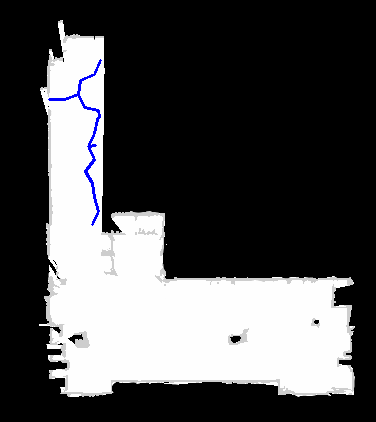
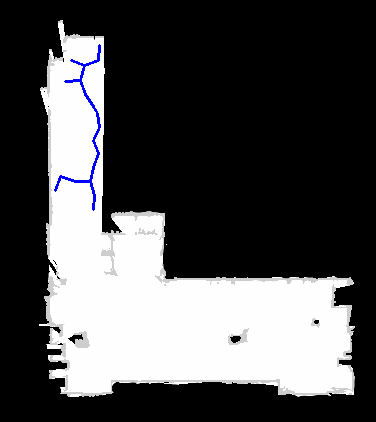
Made a bunch of bs and witchcraft, but it is somehow working now....

Changed region(s): [[0.117, 0.0924, 0.2926, 0.5237]]

diff --git a/RRT.py b/RRT.py
@@ -4,6 +4,7 @@ import matplotlib.pyplot as plt
 import cv2
 from nodeClass import Node
 from shapely import geometry as geo
+import solve
 def findAngle(x0, y0, x1, y1):
     delta_x = x1 - x0
     delta_y = y1 - y0
@@ -22,20 +23,33 @@ def checkLine(imgNew, imgOld): # Check if the line on the current map is placed 
                 if (imgOld[idx][idy][0] == 205 or imgOld[idx][idy][0] == 0):
                     return False
     return True
-def makeLine(imgOld,node0 : Node, node1 : Node, x0, y0, x1, y1): # Creates line between two different sets of (x,y) coordinates on the new map
+def makeLine(imgOld,node0 : Node, node1 : Node): # Creates line between two different sets of (x,y) coordinates on the new map
     x0 = node0.pos[0]
     y0 = node0.pos[1]
     x1 = node1.pos[0]
     y1 = node1.pos[1]
     color = (255, 0, 0)
-    newImage = imgOld.copy()
-    tempAngle = [findAngle(x0, y0, x1, y1)]
-    tempAngle.append(tempAngle[0]+45)
-    tempAngle.append(tempAngle[0]-45)
-    print(tempAngle)
+    newImage = imgOld.copy()#Creates new image to draw on. This is done in case the changes need to be reverted, the old image can still be used..
+    tempAngle = [findAngle(x0, y0, x1, y1)] #Finds angle between old node and new node, compared to x axis
+    if tempAngle[0] < 0:
+        tempAngle[0] = tempAngle[0] + 360#This is done to make sure that anything above 180 is actually something like 190 and not -170
+    tempAngle.append(tempAngle[0]+45) #Finds two new angles, this one +45 deg of orig angle
+    tempAngle.append(tempAngle[0]-45) #This one -45 of orig angle
+    #print(node1.id)
+    #print(tempAngle)
+    cv2.line(newImage, (x0,y0),(x1,y1), color, 2)
     for x in range(3):
-        pass
-    cv2.line(newImage, (x0,y0),(x1,y1), color, 5)
+        node1.heading = tempAngle[x]
+        try:
+            status = solve.drawPath(newImage, node0, node1)
+            if status is not False:
+                print("OKFOFK")
+                if checkLine(status, imgOld):
+                    cv2.line(imgOld, (x0,y0),(x1,y1), color, 2)
+                    return True
+        except:
+            pass
+    return False
     if checkLine(newImage, imgOld):
         cv2.line(imgOld, (x0,y0),(x1,y1), color, 2)
         return True
@@ -73,6 +87,7 @@ def nearestNode(nodes, point): # Iterates through each node generated and measur
 def RTT(node, goal, img, stepSize = 30):
     nodes : list[Node] = [node]
     i = 0
+    triesCounter = 0
     while i  < 500:
         newCoords = getRPoint(img) # Stores coordinates in newCoords from the new generated point(using getRPoint on the map)
         _nearestNode = nearestNode(nodes, newCoords) # Measures distance too all generated nodes, takes the shortest distance and stores in _nearestnode variable
@@ -82,16 +97,21 @@ def RTT(node, goal, img, stepSize = 30):
         if not makeLine(img, _nearestNode, nodes[-1]): # If the line is false it will reset by not drawing the line and decrementing i 
             nodes.pop(-1)                                                                                   # as the increment happens no matter what
             i = i - 1
+            triesCounter = triesCounter + 1
         else:
-            print(i)
+            #print(i)
+            triesCounter = 0
             cv2.imwrite("images/RRT"+str(i)+".png", img)      
-            nodes[-1].addConnection(nodes[-2])    
+            nodes[-1].addConnection(nodes[-2])
+        if triesCounter > 8 and len(nodes) > 1:
+            triesCounter = 0
+            nodes.pop()    
         if (mesaureDist(nodes[-1], goal) < stepSize): # If a node is within the stepSize distance of the goal node, a line will be created between the two nodes
-            if makeLine(img, goal.pos[0], goal.pos[1], nodes[-1].pos[0], nodes[-1].pos[1]):
+            if makeLine(img, nodes[-1], goal):
                 print("Reached goal!!!")
-                nodes.append(Node("Goal", goal.pos[0], goal.pos[1]))
-                nodes[-1].addConnection(nodes[-2])
-                return nodes
+            nodes.append(Node("Goal", goal.pos[0], goal.pos[1]))
+            nodes[-1].addConnection(nodes[-2])
+            return nodes
 
 
 if __name__ == "__main__":

diff --git a/solve.py b/solve.py
@@ -2,6 +2,8 @@ from sympy.solvers import solve
 from sympy import *
 from cmath import cos, sin
 from math import radians, degrees
+import math
+from nodeClass import Node
 from loadParams import *
 import drawTools
 x = Symbol('x')
@@ -80,29 +82,88 @@ def trajectoryGen(tf, startX, startY, goalX, goalY, startAngle, goalAngle):
         length.append(sqrt((x_b_0[x][0]-x_r[x])**2+(x_b_0[x][1]-y_r[x])**2))
     
     #print(x_b_0)
-    print(length)
+    #print(length)
     return x_b_0, h_b_0, xRobot, heading
     #print(x_b_0)
     print(length)
+def findAngle(x0, y0, x1, y1):
+    delta_x = x1 - x0
+    delta_y = y1 - y0
+    theta_radians = math.atan2(delta_y, delta_x)
+    return math.degrees(theta_radians)
 
-xBed, hBed, xRobot, hRobot = trajectoryGen(2, 7, 7, 14, 14, 135, 45)
+
 image = cv2.imread('blank.png')
-compound = True
-for x in range (len(xBed)-1):
-    time = 0.05*x
-    if (compound):
-        image = cv2.imread('blank.png')
-    bedX = (round(xBed[x][0],2))
-    bedY = (round(xBed[x][1],2))
-    bedH = degrees(acos(hBed[x][0]))
-    robotX = xRobot[0].subs("t", time)
-    robotY = xRobot[1].subs("t", time)
-    robotH = degrees(acos(hRobot[0].subs("t",time)))
-    drawTools.drawRect(image, bed, bedH, bedX, bedY)
-    drawTools.drawRect(image, robot, robotH, robotX, robotY)
-    #cv2.imwrite("images/trailer/"+str(x)+".png", image)
-    cv2.imshow('image', image)
+compound = False
+compund = True
+def drawPath(img, node0 : Node, node1 : Node):
+    print("YOURE IN SOLVE NOW")
+    x0 = node0.pos[0]/20
+    y0 = node0.pos[1]/20
+    x1 = node1.pos[0]/20
+    y1 = node1.pos[1]/20
+    h0 = node0.heading
+    h1 = node1.heading
+    angle = findAngle(x0,y0,x1,y1)
+    if angle < 0:
+        angle+=360
+    if h0 > angle+10 or h0 < angle - 15:
+        print("TOO WIDE")
+        return False
+    print(x0, y0, x1, y1, h0, h1)
+    print(angle)
+    xBed, hBed, xRobot, hRobot = trajectoryGen(2, x0, y0, x1, y1, h0, h1)
+    nimg = img.copy()
+    for x in range (len(xBed)-1):
+        #nimg = img.copy()
+        time = 0.05*x
+        bedX = (round(xBed[x][0],2))
+        bedY = (round(xBed[x][1],2))
+        bedH = degrees(acos(hBed[x][0]))
+        robotX = xRobot[0].subs("t", time)
+        robotY = xRobot[1].subs("t", time)
+        bedY1 = (round(xBed[x+1][1],2))
+        robotH = degrees(acos(hRobot[0].subs("t",time)))
+        if bedY > robotY :
+            #pass
+            bedH = -bedH
+            robotH = -robotH
+        drawTools.drawRect(nimg, bed, bedH, bedX*20, bedY*20)
+        drawTools.drawRect(nimg, robot, robotH, robotX*20, robotY*20)
+        #cv2.imwrite("images/trailer/"+str(x)+".png", image)
+    cv2.imshow('image', nimg)
     cv2.waitKey()
+    return nimg
+if __name__ == "__main__":
+    print("FUCK")
+    angle = findAngle(4.65, 6.65, 5.35, 6.55)#When making function make sure that all inputs above 180 be plussed with 360
+    if angle < 0:
+        angle+=360
+    print(angle)
+    xBed, hBed, xRobot, hRobot = trajectoryGen(2, 4.65, 6.65, 5.35, 6.75, 286.6992442339936, 306.86989764584405)
+    
+    for x in range (len(xBed)-1):
+        time = 0.05*x
+        if (compound):
+            image = cv2.imread('blank.png')
+        bedX = (round(xBed[x][0],2))
+        bedY = (round(xBed[x][1],2))
+        bedH = degrees(acos(hBed[x][0]))
+        robotX = xRobot[0].subs("t", time)
+        robotY = xRobot[1].subs("t", time)
+        bedY1 = (round(xBed[x+1][1],2))
+        robotH = degrees(acos(hRobot[0].subs("t",time)))
+        if bedY > robotY :
+            #pass
+            bedH = -bedH
+            robotH = -robotH
+        drawTools.drawRect(image, bed, bedH, bedX*20, bedY*20)
+        drawTools.drawRect(image, robot, robotH, robotX*20, robotY*20)
+        print(robotH)
+        #cv2.imwrite("images/trailer/"+str(x)+".png", image)
+        cv2.imshow('image', image)
+        cv2.waitKey()
 
-    #print(x)
-    #print(time)
+        #print(x)
+        #print(time)
+    

diff --git a/drawTools.py b/drawTools.py
@@ -13,14 +13,17 @@ def drawRect(tempimg, vehicle, angle, x, y):
     wheelBaseX = length/2 - center
     actualX = int(wheelBaseX * cos(radians(angle)))
     actualY = int(wheelBaseX * sin(radians(angle)))
-    x, y = int(meterToPixel(x)), int(meterToPixel(y))
+    x, y = int((x)), int((y))
     rect = ((x+actualX, y+actualY), (length, width), angle)
     box = np.int0(cv2.boxPoints(rect))
     tempimg[y][int(x)] = [0,0,0]
-    cv2.drawContours(tempimg, [box], 0, (255,0,0), -1)
+    cv2.drawContours(tempimg, [box], 0, (255,0,0), 1)
 if __name__ == "__main__":
-    drawRect(image, robot, 0, 2.5, 0)
-    drawRect(image, bed, 25, 0, 1)
+    image = cv2.imread('testMap.png')
+    drawRect(image, robot, -90, 14, 14)
+    drawRect(image, bed, -90, 14, 17)
+    #90.00000000000001 14.0000000000000 17.0000000000000
+    #-90.00000000000001 14 14
     #drawRect(image, x.bed, 40, 21.5, 20)
     cv2.imshow('image', image)
     cv2.waitKey()

diff --git a/Polynomial.py b/Polynomial.py
@@ -30,13 +30,15 @@ def trajectoryGen(tf, startX, startY, goalX, goalY, startAngle, goalAngle):
         x_r.append((a*T**3 + b*T**2 + c*T + d).real)
         y_r.append((a1*T**3 + b1*T**2 + c1*T + d1).real)
     return x_r, y_r
+#trajectoryGen(2, 14, 7, 14, 14, 270, 235)
+mult = 0.5
+x0, y0 = trajectoryGen(2, 4.65*mult, 6.7*mult, 4.3*mult, 6.0*mult, 290.22485943116806, 288.434948822922)
 
-x0, y0 = trajectoryGen(2, 1, 1, 2, 2, 0, 45)
 x1, y1 = trajectoryGen(2, 1, 0, 2, 1, 90, 45)
 x2 , y2 = trajectoryGen(2, 1, 0, 2, 1, 90, 0)
 plt.figure("Trajectory Generator")
 plt.plot(x0, y0, color="red")
 #plt.plot(x1, y1, color="blue")
-plt.plot(x2, y2, color="#0fee0f")
+#plt.plot(x2, y2, color="#0fee0f")
 
 plt.show()

diff --git a/main.py b/main.py
@@ -3,7 +3,7 @@ from nodeClass import Node
 import RRT
 import cv2
 map = cv2.imread("maps/cleanedMap.png")
-n0 = Node("a",80,80)
+n0 = Node("a",80,140)
 n0.heading = 90
 n1 = Node("b",75,250)
 n2 = Node("c",140,330)
@@ -14,8 +14,8 @@ n1.addConnection(n2)
 n2.addConnection([n3, n4])
 n3.addConnection(n4)
 route = shortestRoute(n0,n3)
-currentTree = RRT.RTT(route[0],route[1],map, 15)
+currentTree = RRT.RTT(route[0],route[1],map, 40)
 cv2.imshow("RRT algorithm from MiR Map - 2.5 meter clearance", map)
 cv2.waitKey() 
 print(currentTree)
-print(currentTree[-1].connectedNodes)
+print(currentTree[1].heading)
